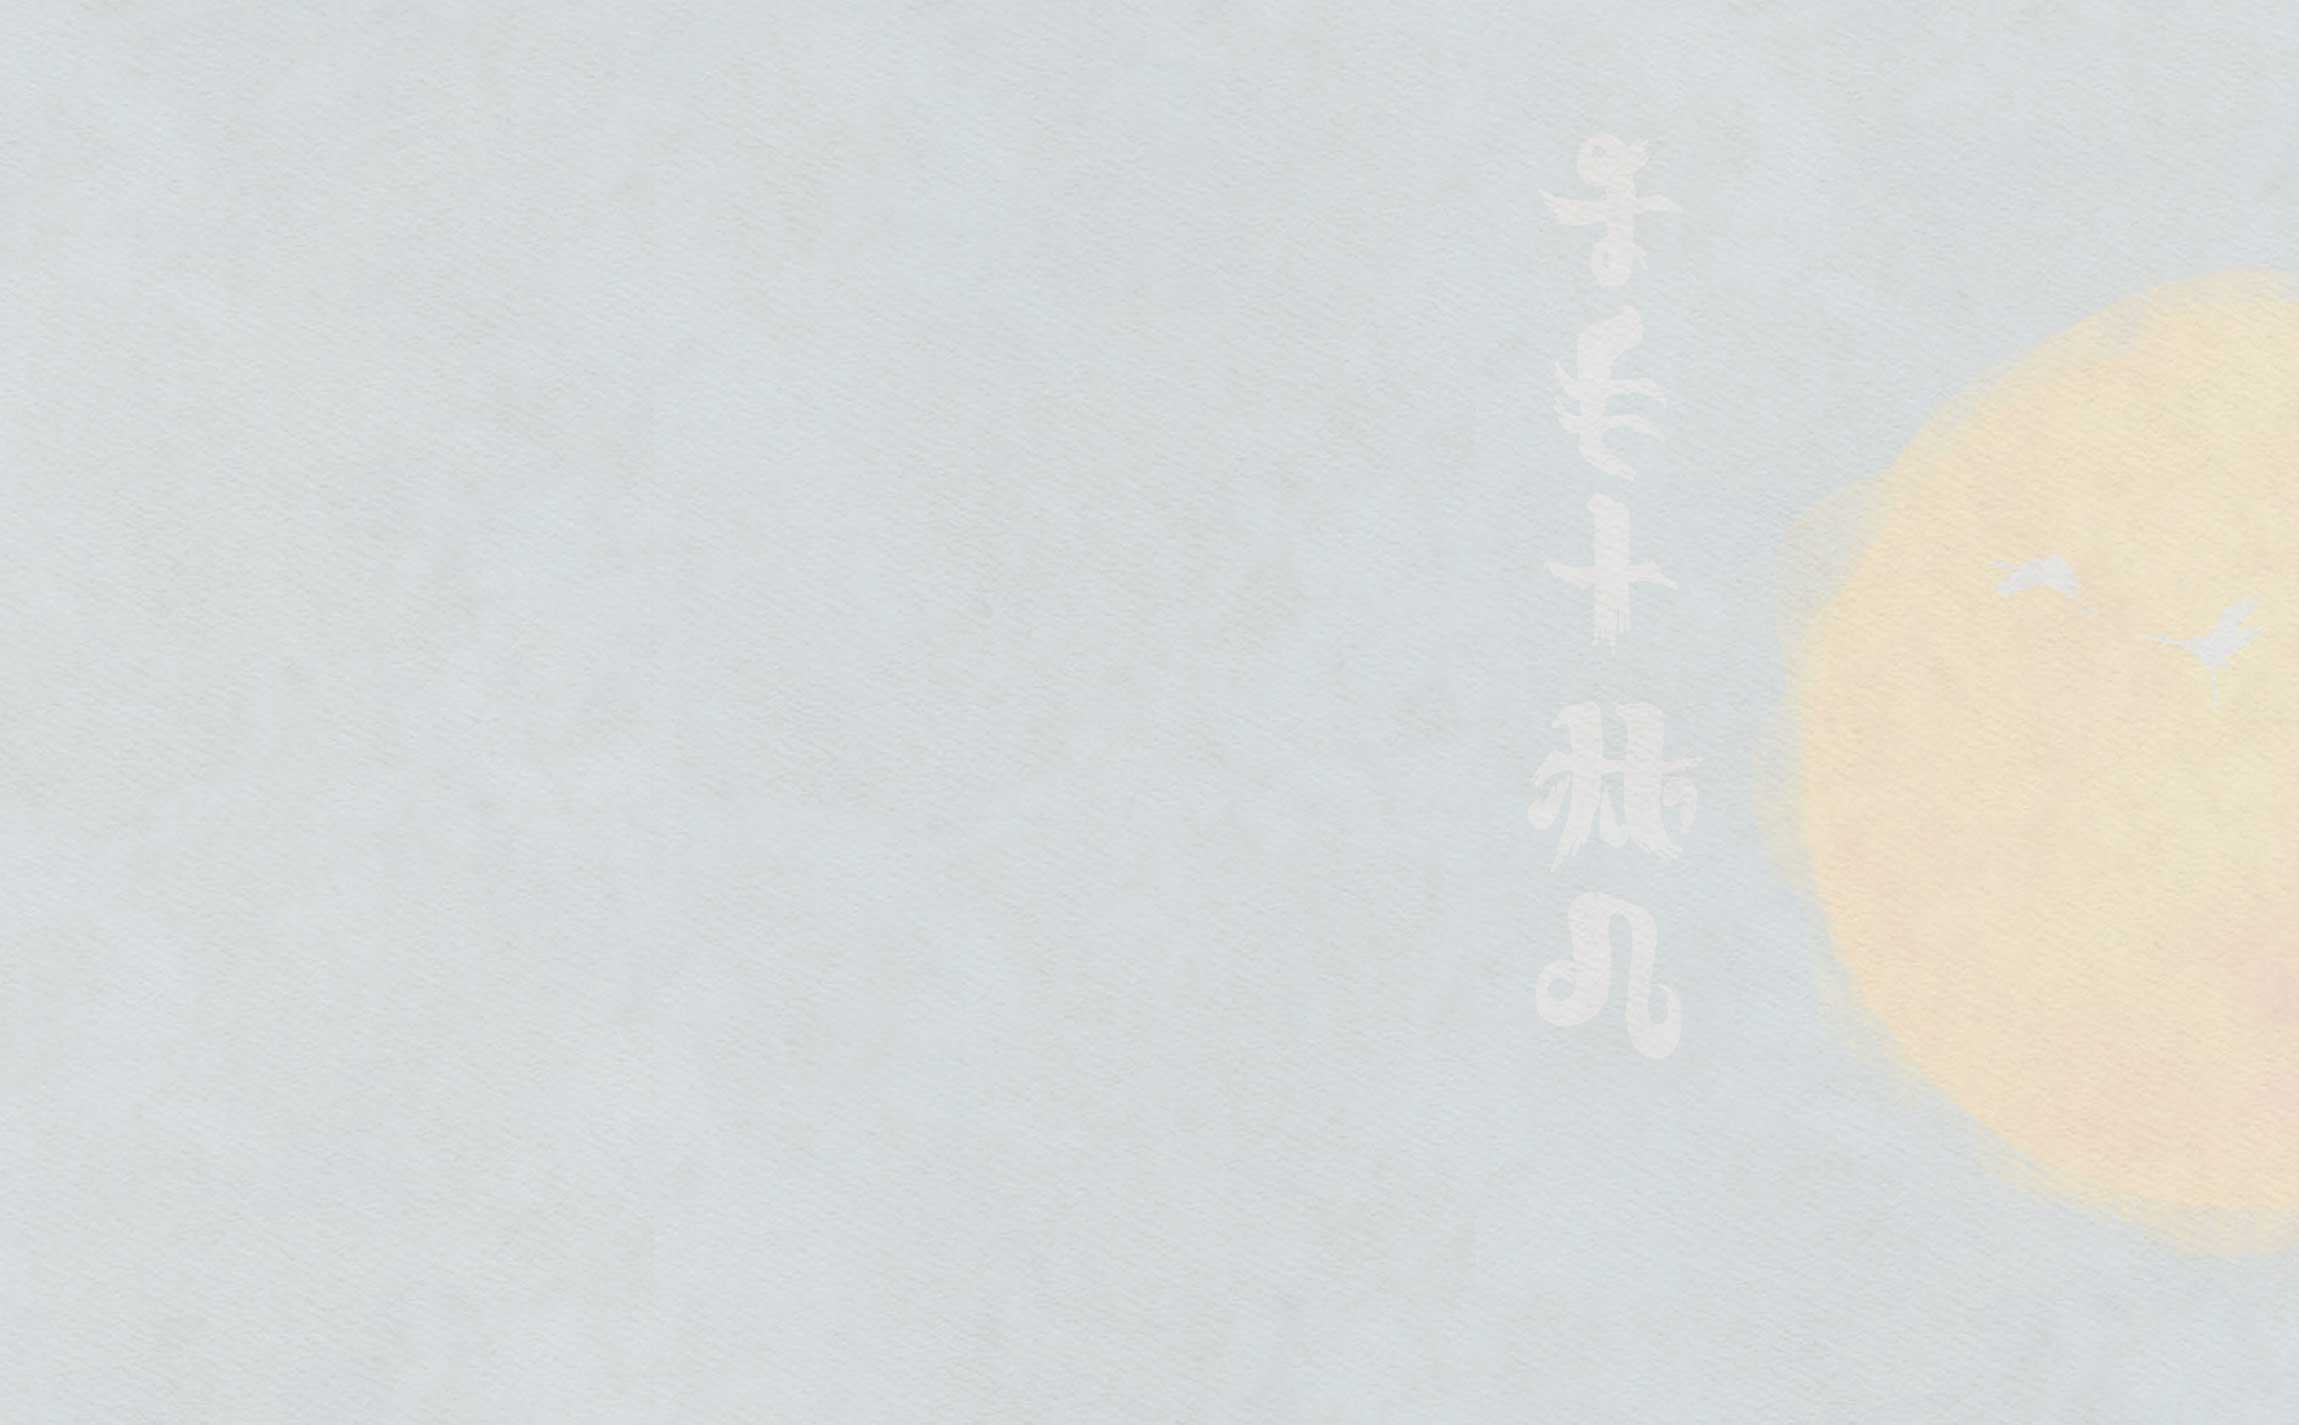
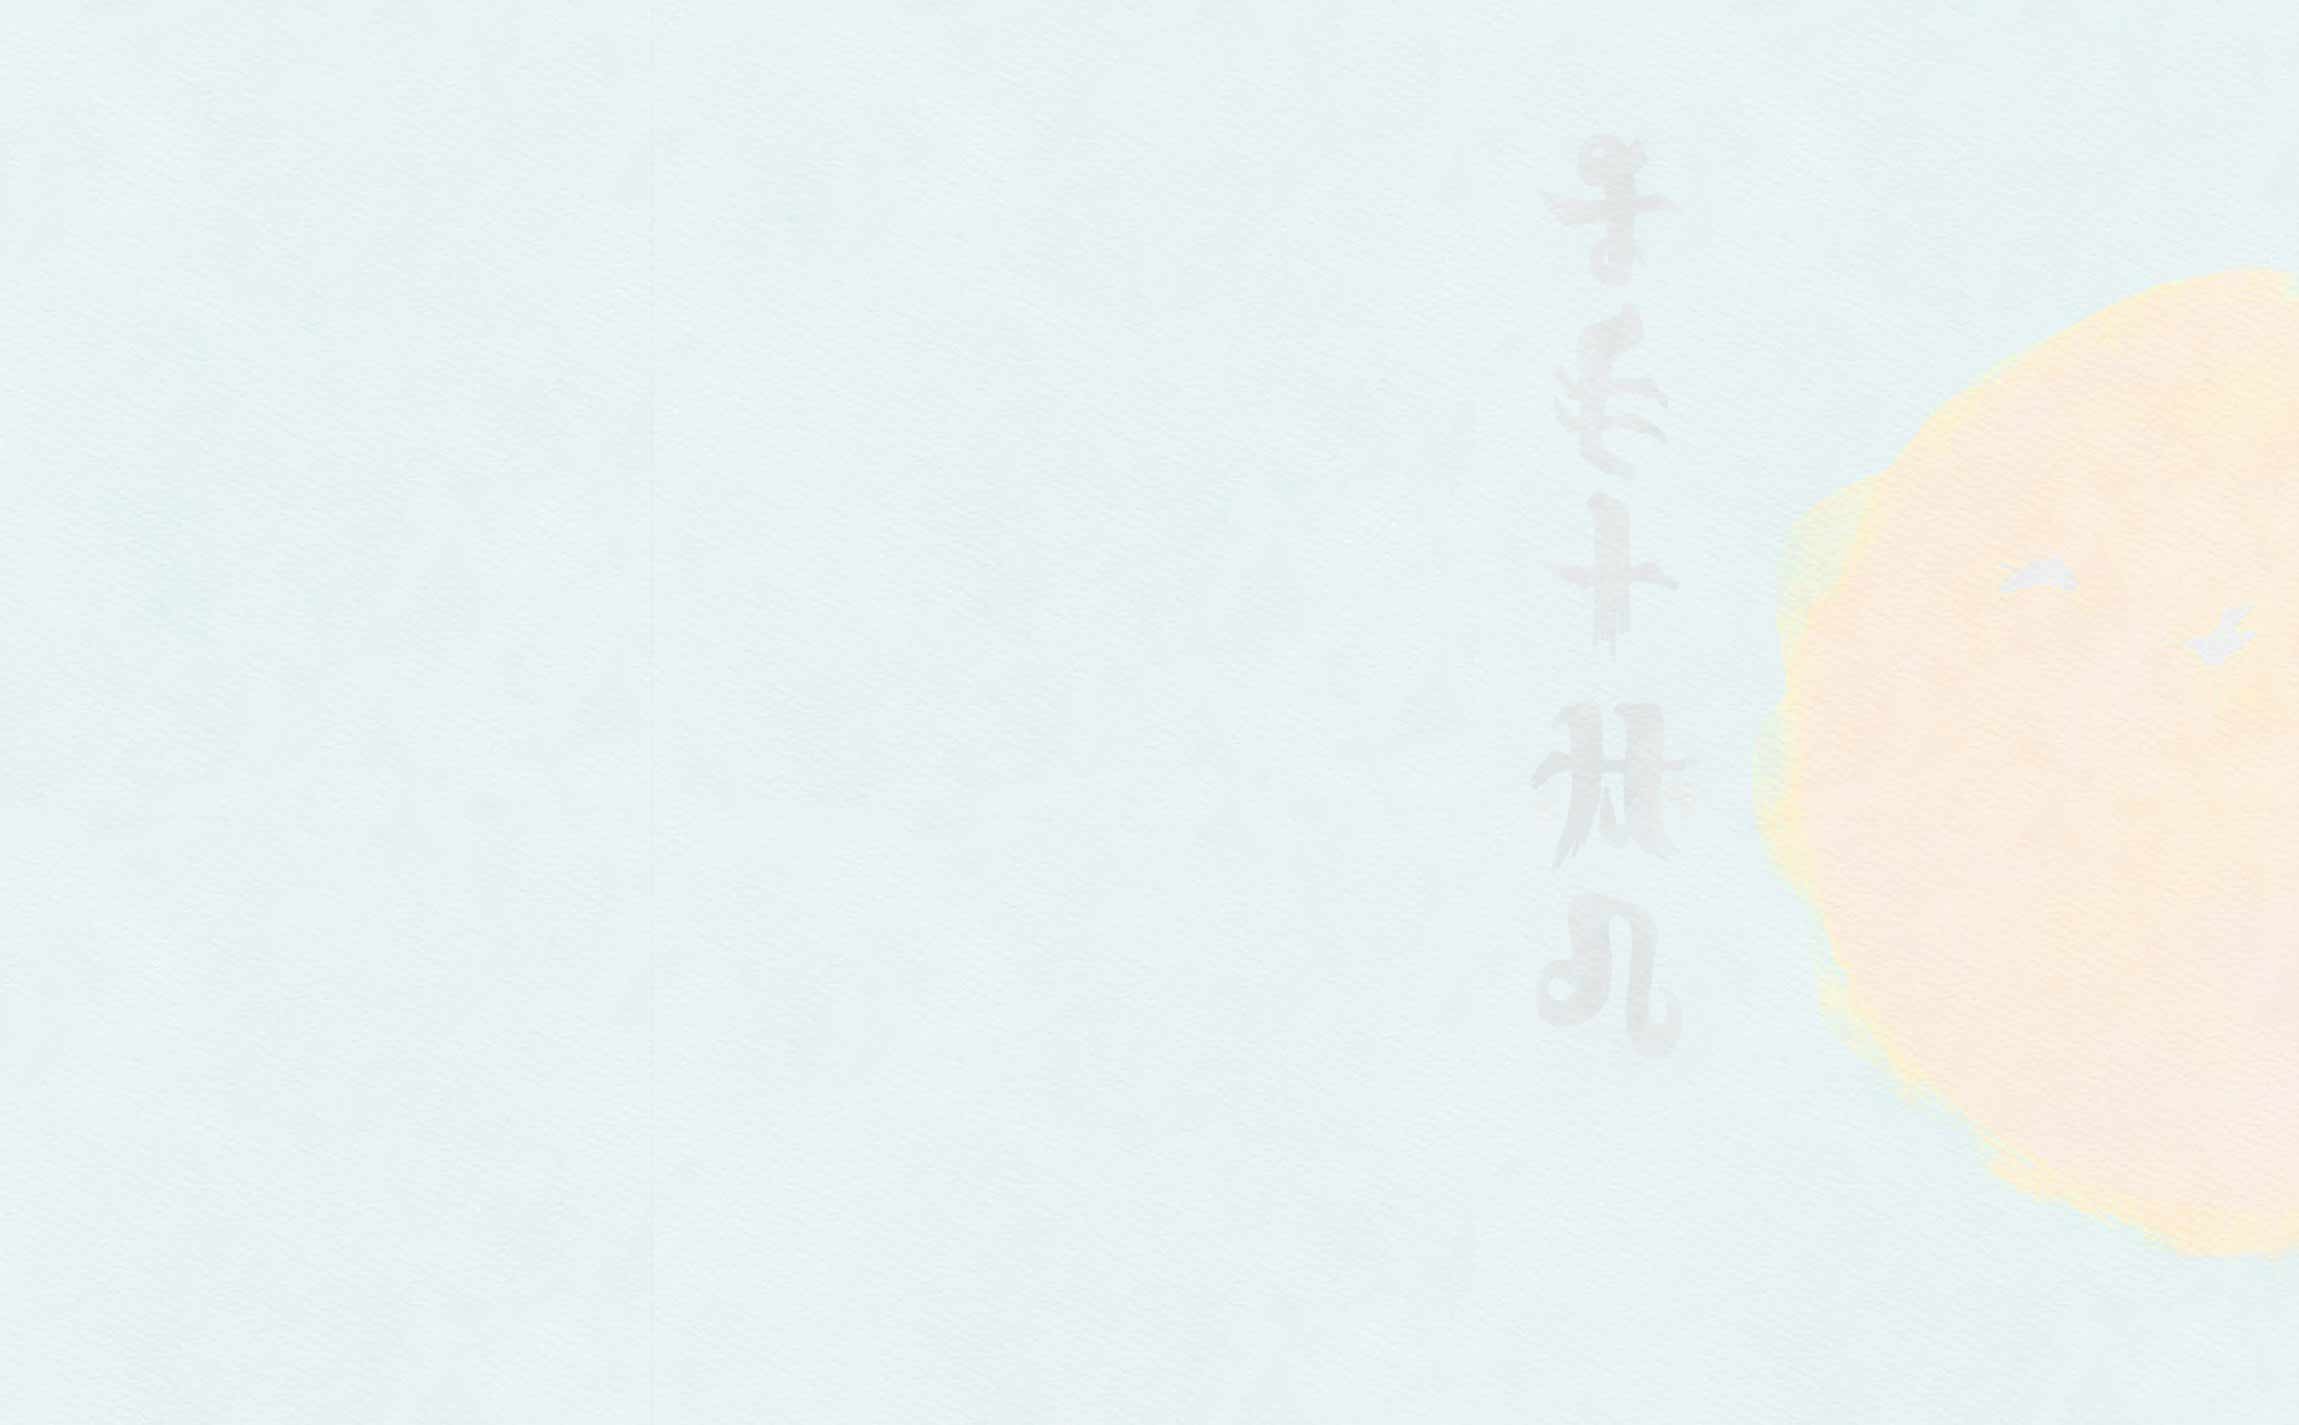
Throw more paint at the UI.

diff --git a/resources/public/css/style.css b/resources/public/css/style.css
@@ -60,7 +60,7 @@ h1 p, h2 p, h3 p, h4 p, h5 p, h6 p {
   background-size: cover;
   box-shadow: 0 0 6px darkgray;
   font-size: 37px;
-  background-image: url(/img/blue_back.jpg);
+  background-image: url(/img/light_blue_back.jpg);
   padding-top: 0px;
 }
 
@@ -188,7 +188,7 @@ input, select, textarea {
   margin-left: -5.0px;
   background-color: transparent;
   padding-right: 0;
-  background-image: url(/img/yellow_back.jpg);
+  background-image: url(/img/blue_text_back.png);
 }
 
 input:focus, select:focus, textarea:focus {
